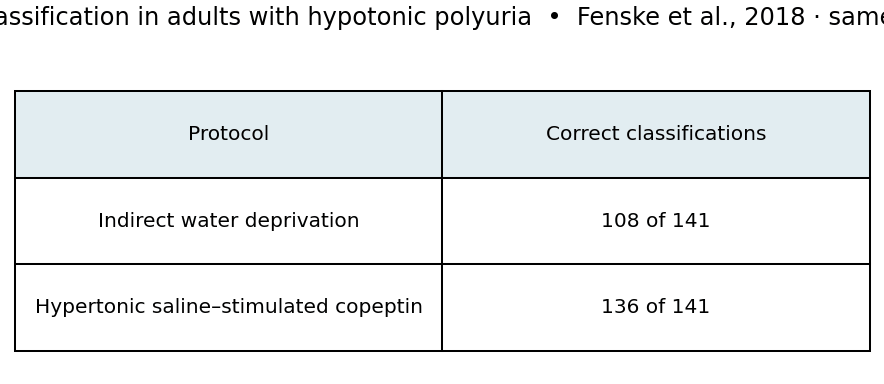
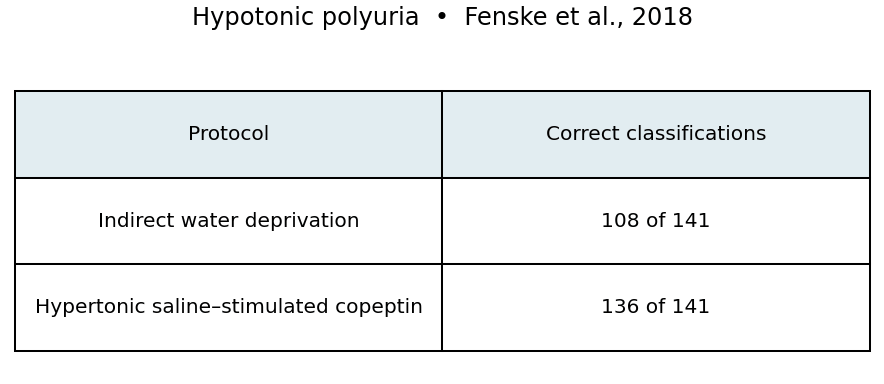
Fit the published diagnostic comparison and its source on an Anki card

Changed region(s): [[0.0, 0.0, 1.0, 0.0938]]

diff --git a/decks/mcat-usmle/figures.py b/decks/mcat-usmle/figures.py
@@ -652,11 +652,11 @@ def pituitary_accuracy():
                title="Simulated response to a single transmitter pulse", ylim=(0, 1.05))
         ax.legend()
         save(fig, "pit_decay_" + name, indexed=True)
-    study_table("pit_accuracy", "Diagnostic classification in adults with hypotonic polyuria",
+    study_table("pit_accuracy", "Hypotonic polyuria",
                 ["Protocol", "Correct classifications"],
                 [["Indirect water deprivation", "108 of 141"],
                  ["Hypertonic saline–stimulated copeptin", "136 of 141"]],
-                source="Fenske et al., 2018 · same participants", indexed=True)
+                source="Fenske et al., 2018", indexed=True)
 
 
 def organ_system_practice():
